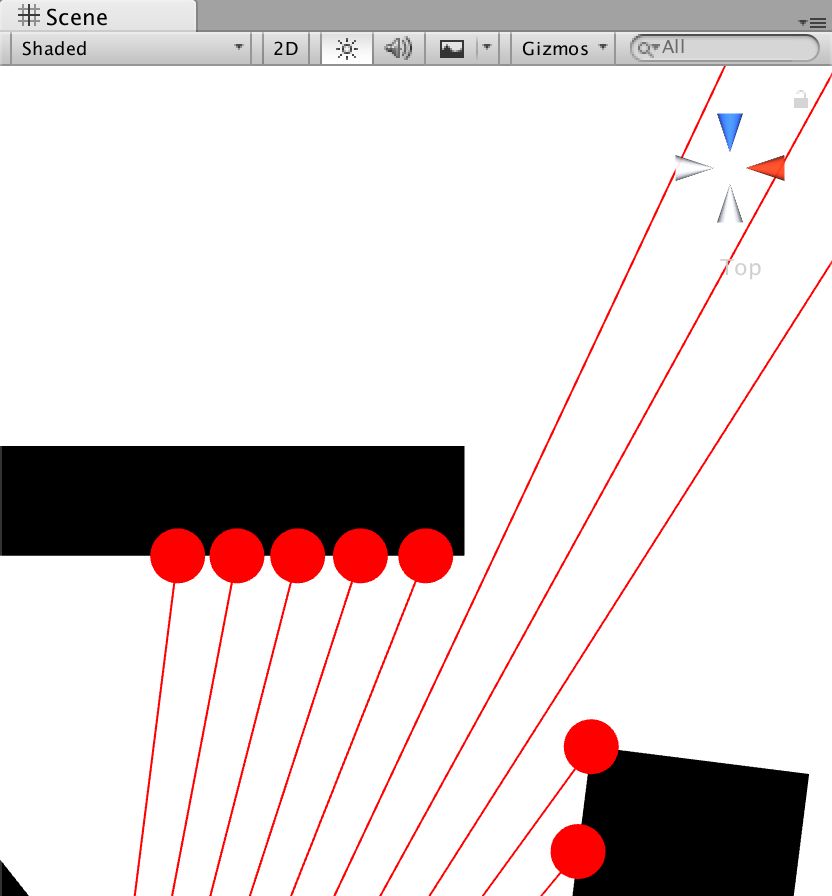
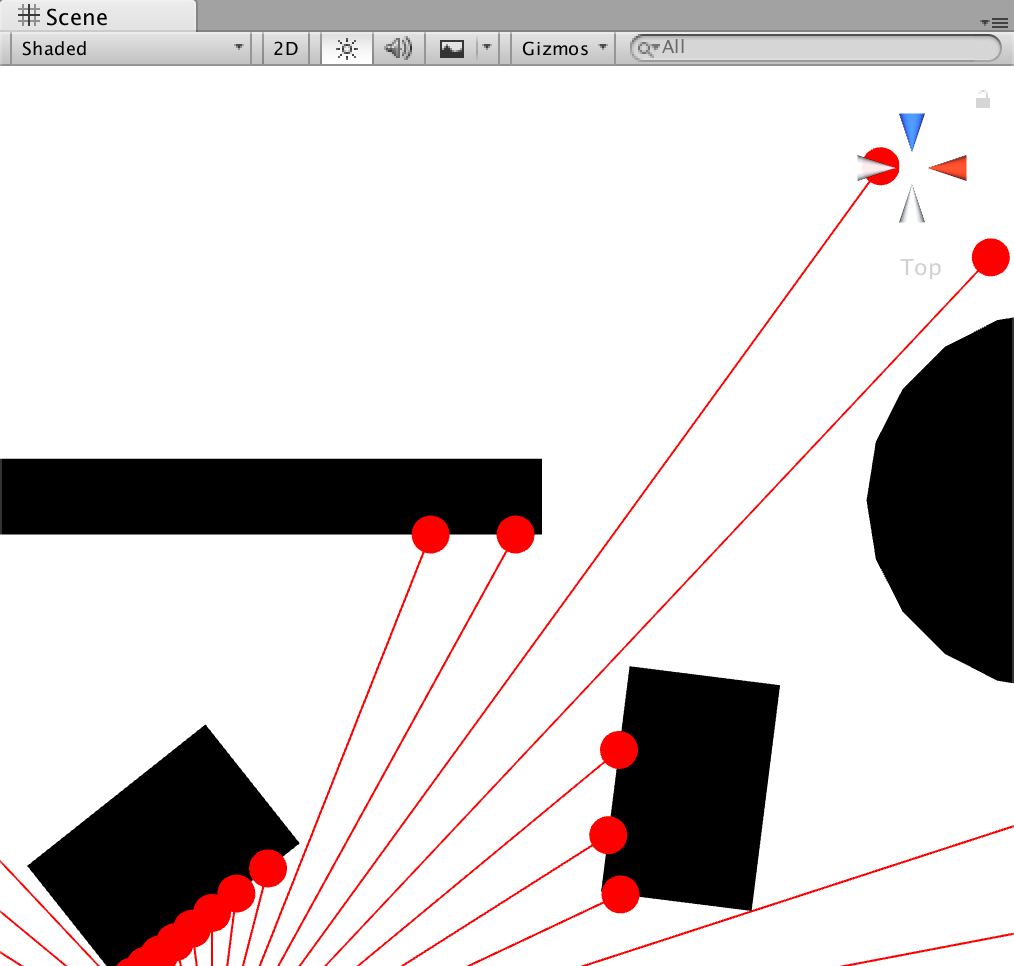
- Update uv detection.

diff --git a/Assets/Scripts/FieldOfView.cs b/Assets/Scripts/FieldOfView.cs
@@ -48,13 +48,14 @@ public class FieldOfView : MonoBehaviour
     {        
         RayData[] rayDatas = new RayData[_divide + 1];
 
+        Vector3 center = transform.position;
         float startAngle = transform.eulerAngles.y -_angle / 2;
         float angle = _angle / _divide;
         RayData rayDataCache = null;
 
         for(int i = 0; i <= _divide; i++)
         {
-            rayDataCache = new RayData(startAngle + angle * i, _radius);
+            rayDataCache = new RayData(center, startAngle + angle * i, _radius);
 
             rayDatas[i] = rayDataCache;
         }
@@ -86,7 +87,7 @@ public class FieldOfView : MonoBehaviour
         else
         {
             rayData.m_hitCollider = null;
-            rayData.m_end = transform.position + rayData.m_direction * _radius;
+            rayData.m_end = rayData.m_start + rayData.m_direction * _radius;
         }
     }
 
@@ -117,10 +118,11 @@ public class FieldOfView : MonoBehaviour
             return null;
         }
 
+        Vector3 center = transform.position;
         float maxAngle = Vector3.Angle(startEdgeRayData.m_direction, endEdgeRayData.m_direction);
         float curAngle = _approximationPrecision;
 
-        RayData edgeRayData = new RayData(startEdgeRayData.m_angle + _approximationPrecision, _radius);
+        RayData edgeRayData = new RayData(center, startEdgeRayData.m_angle + _approximationPrecision, _radius);
         UpdateRaycast(edgeRayData);
 
         while (RayData.IsHittingSameObject(startEdgeRayData, edgeRayData))
@@ -144,7 +146,7 @@ public class FieldOfView : MonoBehaviour
 
         EdgeData edgeData = new EdgeData();
         edgeData.m_secondRay = edgeRayData;
-        edgeData.m_firstRay = new RayData(edgeRayData.m_angle - _approximationPrecision, _radius);
+        edgeData.m_firstRay = new RayData(center, edgeRayData.m_angle - _approximationPrecision, _radius);
         UpdateRaycast(edgeData.m_firstRay);
 
         return edgeData;
@@ -182,6 +184,7 @@ public class FieldOfView : MonoBehaviour
             return null;
         }
 
+        Vector3 center = transform.position;
         EdgeData edgeData = new EdgeData();
         float angle = 0;
         RayData edgeRayData = null;
@@ -189,7 +192,7 @@ public class FieldOfView : MonoBehaviour
         for (int i = 0; i < _bisectionCount; i++)
         {
             angle = (startEdgeRayData.m_angle + endEdgeRayData.m_angle) / 2;
-            edgeRayData = new RayData(angle, _radius);
+            edgeRayData = new RayData(center, angle, _radius);
             UpdateRaycast(edgeRayData);
 
             if (RayData.IsHittingSameObject(startEdgeRayData, edgeRayData))

diff --git a/Assets/Scripts/FieldOfViewMesh.cs b/Assets/Scripts/FieldOfViewMesh.cs
@@ -66,10 +66,13 @@ public class FieldOfViewMesh : FieldOfView
         Vector3 direction = Vector3.zero;
         for (int i = 1, mesh = 0; i < _uvs.Length; i += 2, mesh++)
         {
-            lerp = _vertices[i].magnitude * 0.6f / _radius;
-            _uvs[i] = uvTop * lerp + _uvs[0];
-            lerp = _vertices[i + 1].magnitude * 0.6f / _radius;
-            _uvs[i + 1] = uvTop * lerp + _uvs[0];
+            lerp = _vertices[i].magnitude / _radius;
+            direction = _rayDatas[mesh].m_direction * _rayDatas[mesh].m_distance * 0.6f / _radius;
+            _uvs[i] = new Vector2(direction.x, direction.z) * lerp + _uvs[0];
+
+            lerp = _vertices[i + 1].magnitude / _radius;
+            direction = _rayDatas[mesh + 1].m_direction * _rayDatas[mesh].m_distance * 0.6f / _radius;
+            _uvs[i + 1] = new Vector2(direction.x, direction.z) * lerp + _uvs[0];
         }
 
         _mesh.Clear();

diff --git a/Assets/Scripts/RayData.cs b/Assets/Scripts/RayData.cs
@@ -2,6 +2,7 @@
 
 public class RayData
 {
+    public Vector3 m_start;
     public float m_distance;
     public float m_angle;
     public Vector3 m_direction;
@@ -9,8 +10,9 @@ public class RayData
     public Collider m_hitCollider;
     public bool m_hit;
 
-    public RayData(float angle, float distance)
+    public RayData(Vector3 start, float angle, float distance)
     {
+        m_start = start;
         m_distance = distance;
 
         UpdateDirection(angle);
@@ -20,7 +22,7 @@ public class RayData
     {
         m_angle += angle;
         m_direction = DirFromAngle(m_angle);
-        m_end = m_direction * m_distance;
+        m_end = m_start + m_direction * m_distance;
     }
 
     private Vector3 DirFromAngle(float angle)
